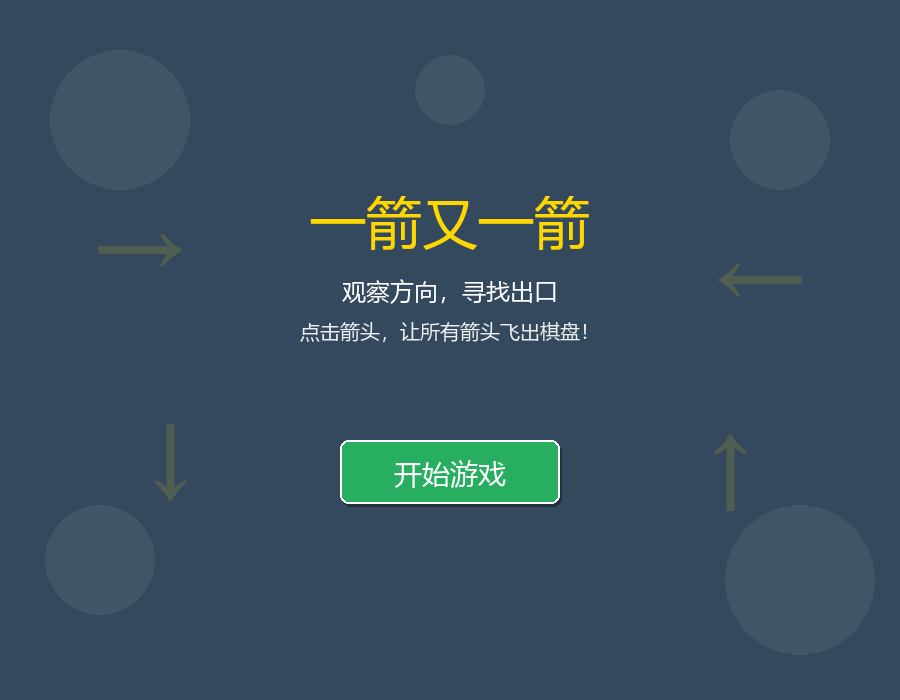
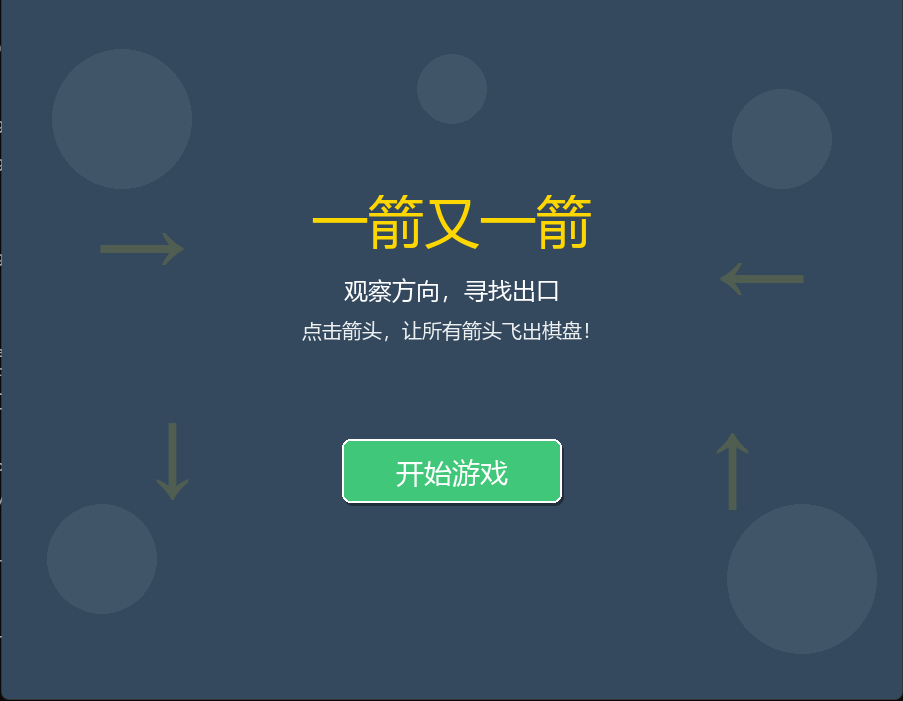
更新开始界面截图，新增游戏失败界面截图

diff --git a/README.md b/README.md
@@ -78,9 +78,35 @@
 
 ![游戏界面](images/game.png)
 
-游戏结果界面（通关 / 失败）：
+全部三关通关后的结算界面（显示三关星级、总评价、总分和总用时）：
 
-![游戏结果界面](images/result.png)
+![游戏通关界面](images/result.png)
+
+失误次数耗尽后的失败界面（显示本次得分和已完成关卡数）：
+
+![游戏失败界面](images/failure.png)
+
+### 演示 GIF（推荐补充）
+
+静态截图只能展示某一瞬间，GIF 或短视频可以更清楚地呈现游戏的核心动画：箭头飞出、碰撞震动、原路返回、计时与得分实时变化等。推荐录制一段 3~8 秒的演示，包含：
+
+1. 从开始界面点「开始游戏」进入第 1 关
+2. 点击一个可飞出的箭头，展示飞出动画和得分 +100
+3. 再点击一个被阻挡的箭头，展示「前进 → 碰撞 → 返回」动画和扣分 / 失误 +1
+
+录制工具推荐（均为免费，适合 Windows）：
+
+| 工具 | 说明 |
+|---|---|
+| **LICEcap** | 最推荐。体积小、操作简单，选中区域后直接录制为 GIF，自带文字提示和帧率调节，GitHub 上很多小游戏都用它 |
+| **OBS Studio** | 专业录屏软件，支持 MP4 等多种格式；录完后可用 [ezgif.com](https://ezgif.com/video-to-gif) 在线转 GIF |
+| **ScreenToGif** | 功能比 LICEcap 稍强，同样是免费开源，内置编辑器可以删掉多余帧 |
+
+录制后建议保存为 `images/demo.gif`，并在上文游戏界面处追加一行引用：
+
+```markdown
+![演示动画](images/demo.gif)
+```
 
 ## 六、项目结构
 
@@ -89,9 +115,10 @@ one-arrow-after-another/
 ├── main.py            # 游戏主程序（包含全部游戏逻辑与界面绘制）
 ├── 一箭又一箭.spec     # PyInstaller 打包配置（生成单文件 exe）
 ├── images/            # README 使用的游戏界面截图（非游戏运行资源）
-│   ├── start.png
-│   ├── game.png
-│   └── result.png
+│   ├── start.png      # 开始界面
+│   ├── game.png       # 游戏进行界面
+│   ├── result.png     # 全部通关结算界面
+│   └── failure.png    # 挑战失败界面
 ├── AIGC记录.md         # AIGC 工具使用过程记录
 ├── .gitignore         # Git 忽略文件配置
 └── README.md          # 项目说明文档
